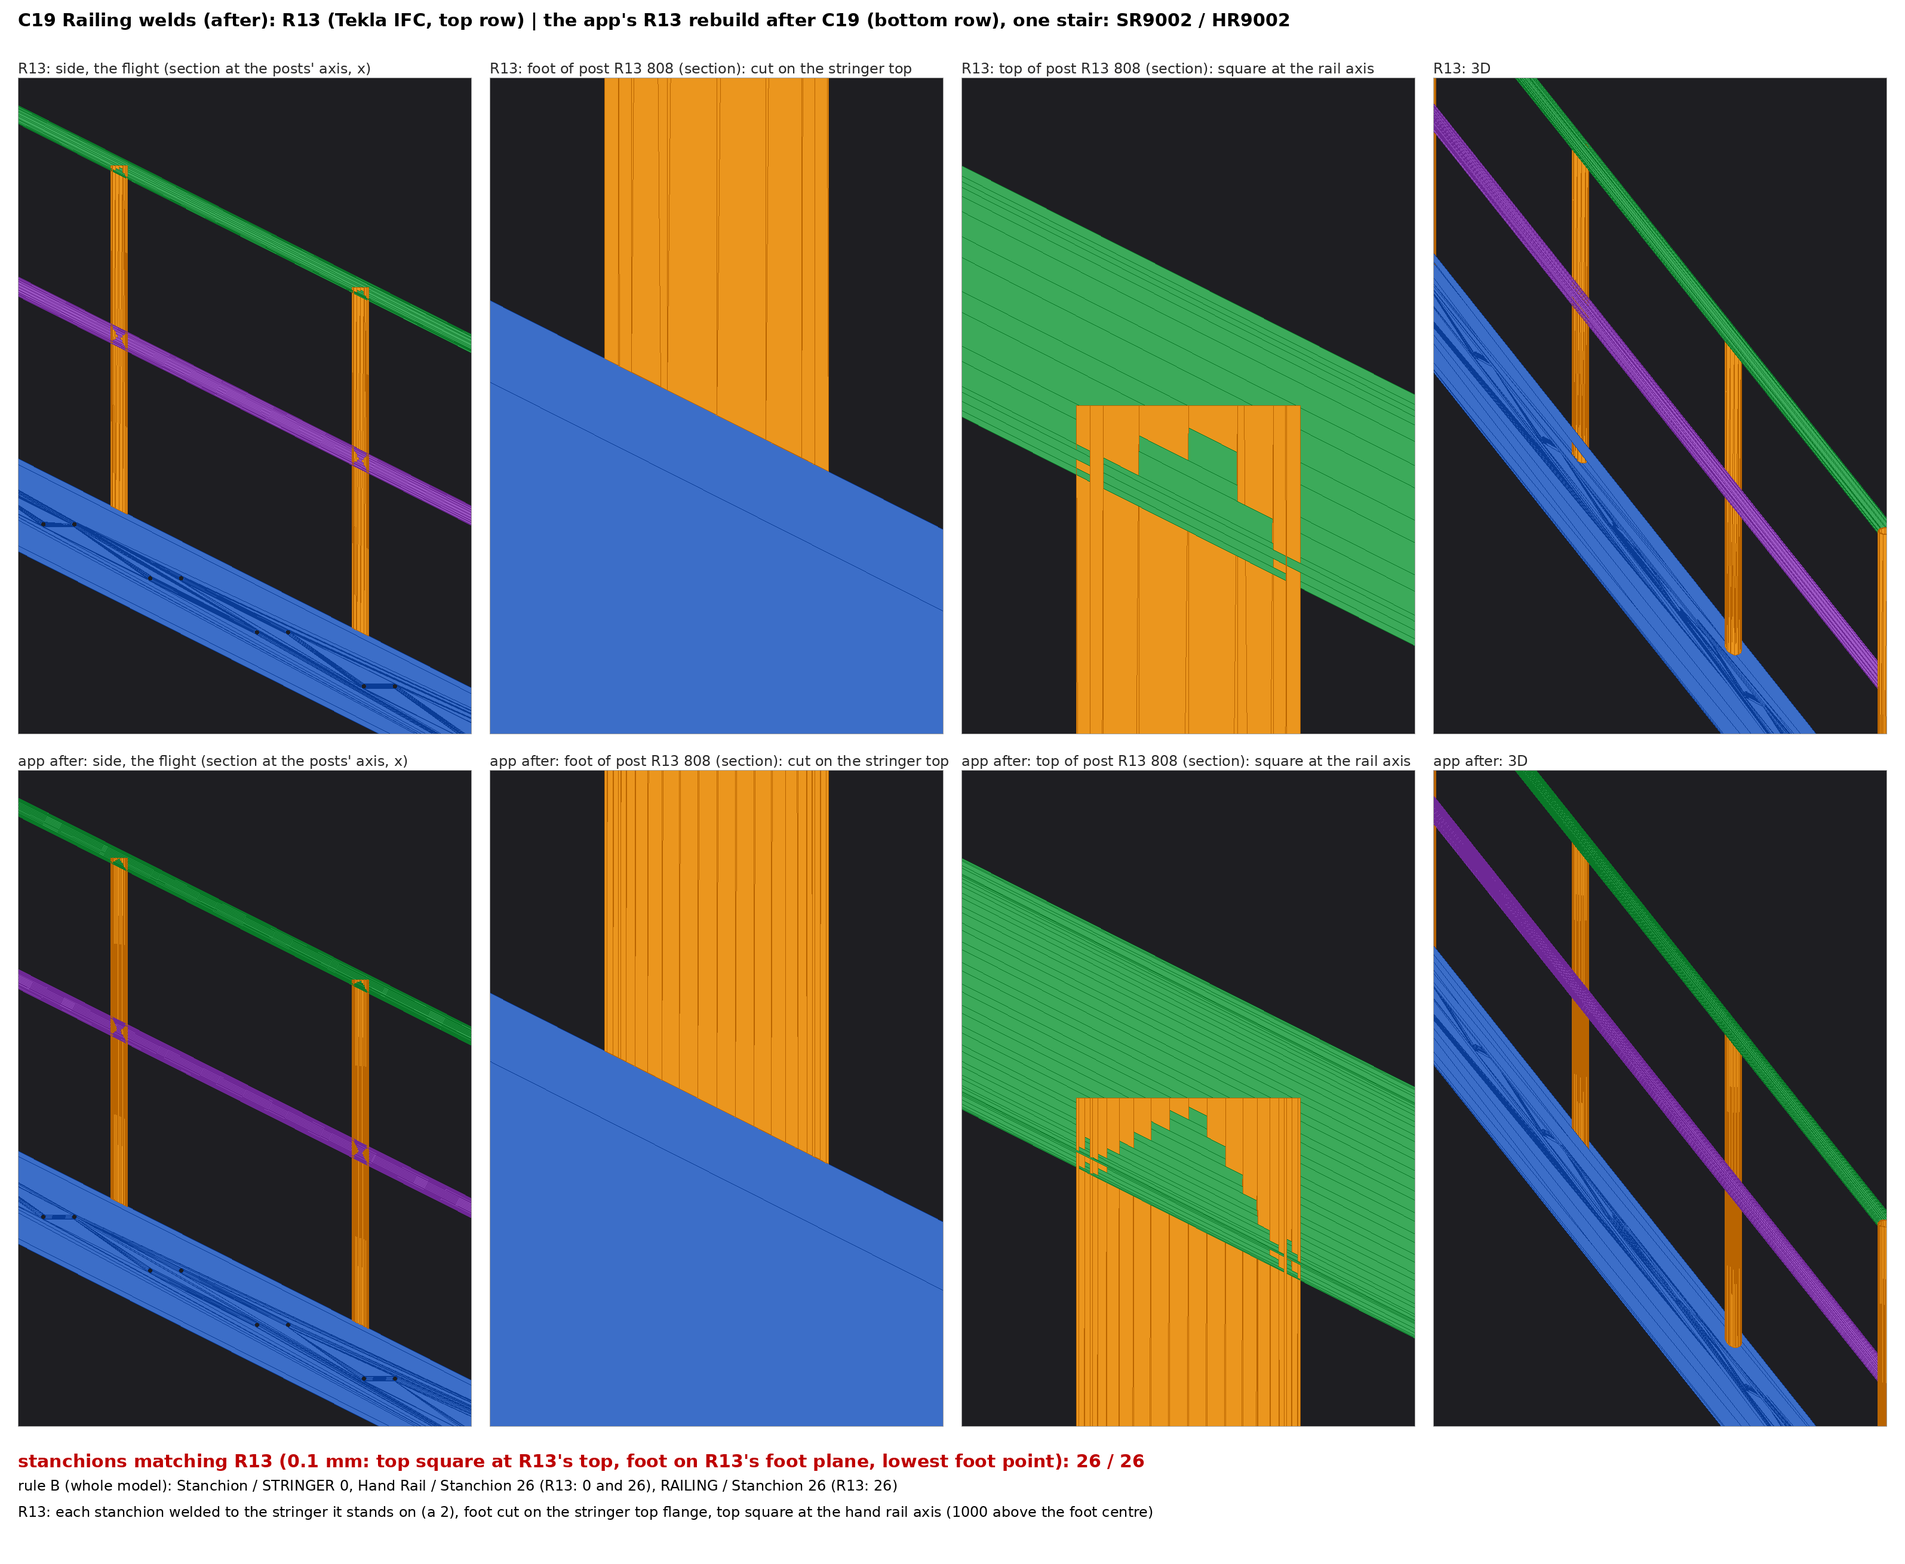
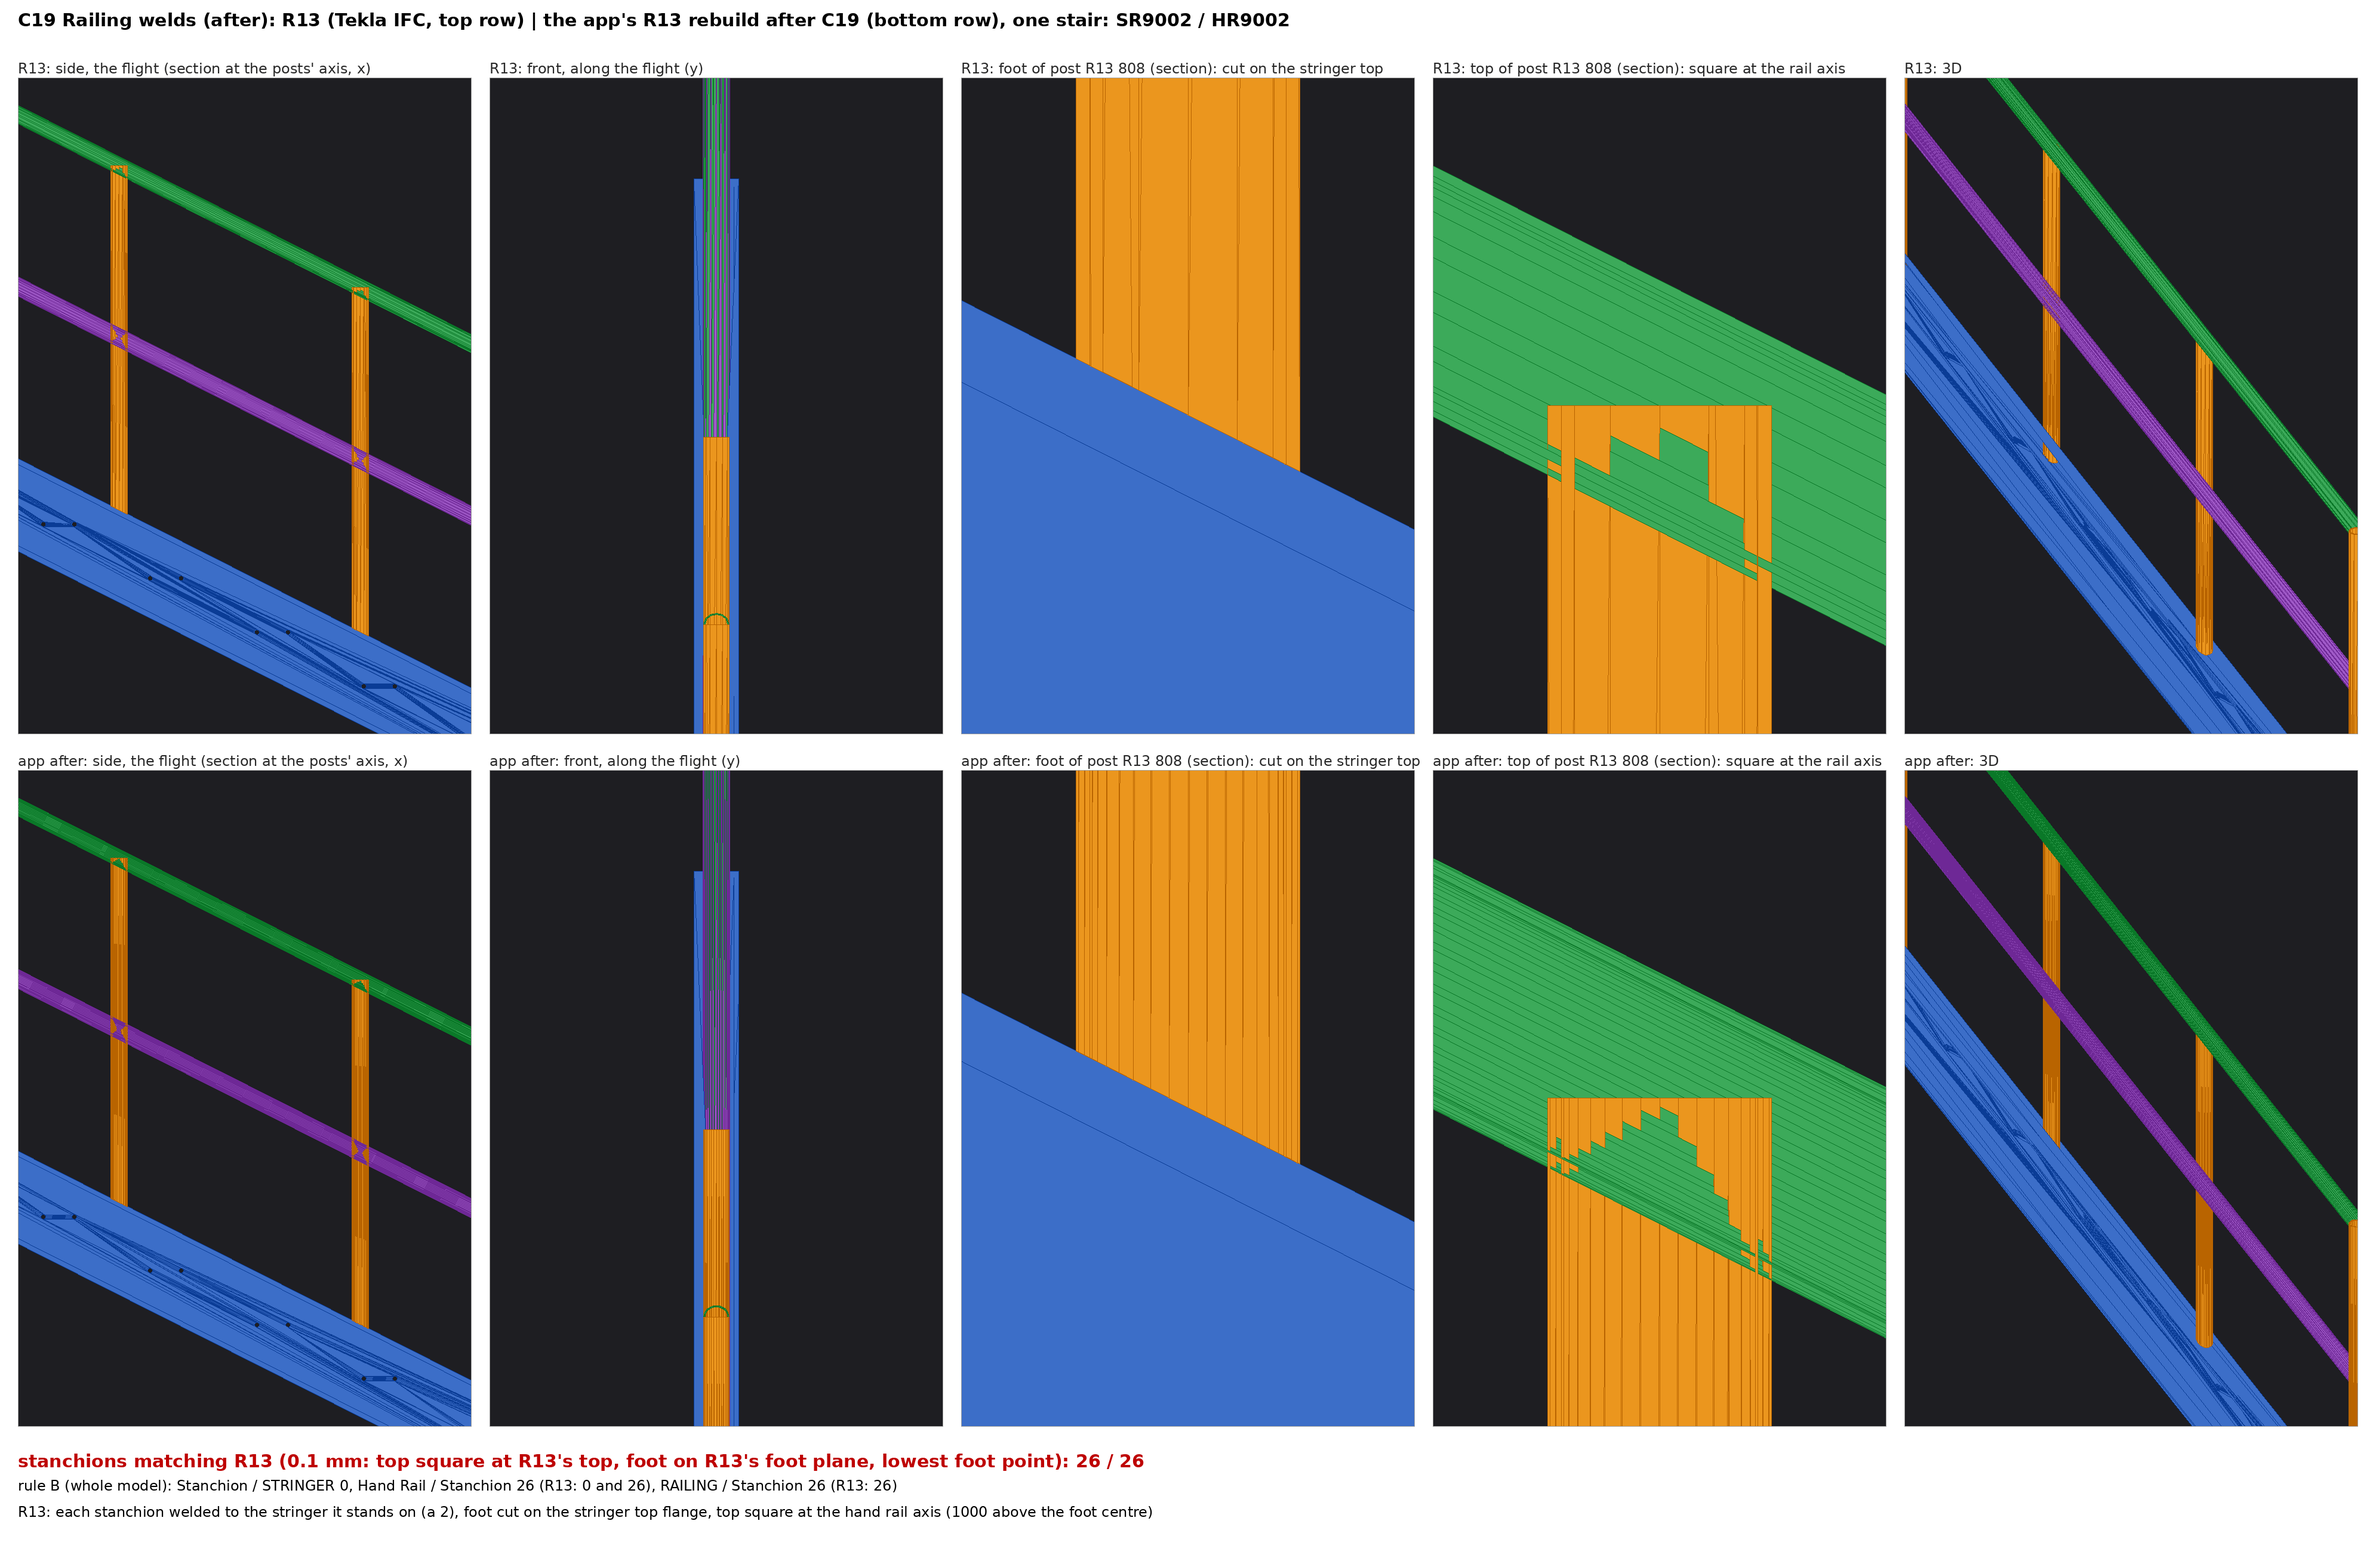
Delivery 2026-11-28 (2): row 19 (C19) from fd71ed7; C19 images with a front view; R12-REPORT C19 delivered, waiting for the phone OK [skip ci]
Claude-Session: https://claude.ai/code/session_01WuKK1kogVMvr56g7SHa75X

diff --git a/tools/golden/parity_png.py b/tools/golden/parity_png.py
@@ -528,11 +528,12 @@ def c19(before, after, shots=None):
         return [b for b in D['bodies'] if b.get('shape') and nm(b) in ('STRINGER', 'STANCHION', 'HAND RAIL', 'HANDRAIL', 'RAILING', 'KNEE RAIL') and (VT(b)[0].max(0) > box[0]).all() and (VT(b)[0].min(0) < box[1]).all()]
     d3 = np.array([-0.9, -1.1, 0.7]); d3 /= np.linalg.norm(d3)   # 3D: the target moved toward the camera (an orthographic view), so nothing is cut away
     views = [('side, the flight (section at the posts\' axis, x)', np.array([565.5, 10070.0, 1600.0]), (-1, 0, 0), 2300.0),
+             ('front, along the flight (y)', np.array([565.5, 10070.0 - 6000.0, 1650.0]), (0, -1, 0), 1500.0),
              ('foot of post R13 808 (section): cut on the stringer top', np.array([565.5, 10435.0, 1300.0]), (-1, 0, 0), 170.0),
              ('top of post R13 808 (section): square at the rail axis', np.array([565.5, 10435.0, 2298.0]), (-1, 0, 0), 170.0),
              ('3D', np.array([565.5, 10070.0, 1600.0]) + d3 * 6000, tuple(d3), 2300.0)]
     def row(path):
-        bs = pick(path); return [render([b for b in bs if not (t is views[2][1] and False)], t, d, dist, colr, W=760, H=1100) for _, t, d, dist in views]
+        bs = pick(path); return [render(bs, t, d, dist, colr, W=760, H=1100) for _, t, d, dist in views]
     R13 = os.path.join(REPO, 'tests', 'steel', 'models', 'Frame_28x53m_R13.ss'); r13 = row(R13)
     def rb(path):
         r = subprocess.run([sys.executable, os.path.join(REPO, 'tools', 'golden', 'geom_checks.py'), path], capture_output=True, text=True).stdout.splitlines()

diff --git a/docs/steel/parity/DELIVERY_2026-11-28_2.md b/docs/steel/parity/DELIVERY_2026-11-28_2.md
@@ -1,0 +1,48 @@
+# Delivery 2026-11-28 (2): row 19, one commit on main
+
+- **Commit:** `fd71ed7`, a plain merge of `agent/c19` plus the approved baseline lines. Every file comes from this one commit:
+  - the APK `solidsketch-steel-0.24.0-parity-debug.apk`, from CI run [46078777189](https://github.com/ssas1qasd-boop/solidsketch-steel/actions/runs/46078777189) (apk-phone artifact, unzipped);
+  - `solidsketch_v70.html`, built by `tools/web/build_v70.py`;
+  - `R13_app_after.ss`, from `R13RebuildTest`;
+  - the C19 and C18 recordings, from the same CI run.
+- **Images:** the C19 images were regenerated after that commit with a front view added (`tools/golden/parity_png.py`, images and tooling only, no app or web code). They are committed with this report.
+- **Reference:** R13. Weight target: Part List 64,023.4 kg; Tekla's per-part weights (`st.tkW`) 64,017.49 kg.
+- **Merged:** one branch, `agent/c19`, merged without conflicts. `tools/ci/full_suite.sh` then ran on main; only the parked gable-node bolts fail (see Rule B).
+- **Generated time:** 2026-11-27 23:15 UTC.
+
+## Connections
+
+| Connection | Who | Matched on R13 (0.1 mm), before → after | Weight (web rebuild) | Rule B | Goldens | CI | Status |
+|---|---|---|---|---|---|---|---|
+| **C19** railing stanchions | agent C19 | stanchions 0 → **26 / 26** (top square at the hand rail axis, foot cut on the stringer top flange, as R13) | stanchions 82.38 → 82.68 kg = Tekla; rebuild +0.30 | Stanchion / STRINGER 22 → 0; Hand Rail / Stanchion 0 → 26, R13 has all 26 (approved, each line holds R13's depth, ≤ 0.1 mm drift allowed) | new case `t19_r13_flight1_railing`, app goldens `rl_tekla_r13` / `rl_tekla_landing`, R13 | 3 on the branch + 1 on main | waiting for OK |
+
+## R13 totals, before → after
+Before is main at `2d5687e`.
+
+| | Before | After (`fd71ed7`) | Tekla |
+|---|---|---|---|
+| Members matched | 839 / 839 | 839 / 839 | |
+| Detail parts matched / near / missing | 3,701 / 6 / 0 | 3,701 / 6 / 0 | |
+| Rebuild weight, web | 64,014.32 | **64,014.62** | 64,017.49 per part; 64,023.4 Part List |
+| Stanchions (26) | 82.38 kg | **82.68 kg** | 82.68 kg |
+| R13 opened in the web: assemblies / drawings / bolts | 160 / 416 / 4,596 | 160 / 416 / 4,596 | 160 / 419 / 4,596 |
+| Rule B, app's R13 rebuild: findings / not on the baseline | 68 / 26 | 72 / **4** | |
+
+## Rule B
+
+`tools/ci/ruleB_r13_baseline.txt` now has 68 lines, each approved by the owner:
+- 26 RAILING PD50*5 / Stanchion;
+- 16 gable-node grip bolts;
+- 26 Hand Rail CHS48*3 / Stanchion CHS48*3, each ending in `| r13_depth D`. `ruleB_baseline_check.py` fails if our depth drifts more than 0.1 mm from R13's own depth. Today the largest difference is +0.0992 mm.
+
+Failures that stay (parked as "gable nodes", after Group 1):
+- **`ruleB_r13_app`:** 4 gable-node bolts with 2.3 mm air (R13 1.8 mm).
+- **`ruleB_cases`:** case `t20g_r13_gable_vl_lead`, the same 2 bolts. Its `ruleB_known.txt` entry was removed because it was added without the owner's OK.
+
+## Group 1 time rows (TIMES.md)
+No Group 1 component accepted in this delivery. T144 is finished on `agent/g1-t144` and merges next.
+
+## Not verified
+- Nothing checked on a phone.
+- Hand rail depth: ours is always 0.007–0.099 mm deeper than R13's own (parked, cause not yet known; PARITY.md "Parked").
+- The recording is played at 3× to fit 60 s; the full 180 s recording is in the folder.

diff --git a/docs/steel/R12-REPORT.md b/docs/steel/R12-REPORT.md
@@ -20,7 +20,7 @@
 | C14 | Shear plate 146, joist <- girder | 🟡 | delivered, waiting for the phone OK |
 | C17 | Shear plate 146 as gable hanger | 🟡 | delivered, waiting for the phone OK |
 | C18 | Stairs (treads, brackets, stair end plates, counter plates) | 🟡 | delivered, waiting for the phone OK |
-| C19 | Railing welds (stanchion top square, foot cut on the stringer slope) | 🟡 | fix in progress (agent row 19, 2026-11-28) |
+| C19 | Railing welds (stanchion top square, foot cut on the stringer slope) | 🟡 | delivered 2026-11-28 (DELIVERY_2026-11-28_2.md, commit fd71ed7); waiting for the phone OK |
 | C20 | Column with stiffeners 186 | 🟡 | delivered, waiting for the phone OK |
 | X01 | Built-ups as three plates, fittings | 🟡 | delivered, waiting for the phone OK |
 | X02 | Column tops, cap plates | 🟡 | delivered, waiting for the phone OK |
